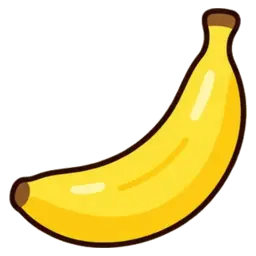
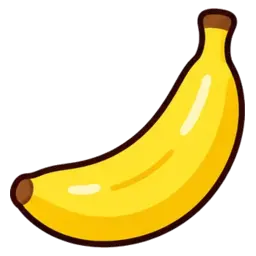
Counters quiz: add food/item illustrations from sheet 1
Claude-Session: https://claude.ai/code/session_01TCRPV7fohktLwWF6WC9mVd

diff --git a/site/asonde/kazoekata/kazoekata.html b/site/asonde/kazoekata/kazoekata.html
@@ -124,13 +124,13 @@
 var $=function(i){return document.getElementById(i)};
 var TIP={こ:'「こ」は りんご・ボール・たまご など、小さくて まるい ものを かぞえるよ。',ほん:'「ほん」は えんぴつ・かさ・バナナ など、ほそながい ものを かぞえるよ。',まい:'「まい」は かみ・シャツ・おさら など、うすくて たいらな ものを かぞえるよ。',ひき:'「ひき」は ねこ・いぬ・さかな など、小さい どうぶつを かぞえるよ。',とう:'「とう」は ぞう・うま・うし など、大きい どうぶつを かぞえるよ。',わ:'「わ」は とりを かぞえるよ。うさぎも「わ」で かぞえることが あるよ。',だい:'「だい」は くるま・じてんしゃ・テレビ など、のりものや きかいを かぞえるよ。',さつ:'「さつ」は ほん・ノート など、とじてある ものを かぞえるよ。',にん:'「にん」は ひとを かぞえるよ。1人は ひとり、2人は ふたり と よむよ。',そく:'「そく」は くつ・くつした など、2つで 1くみの はきものを かぞえるよ。',けん:'「けん」は いえ や おみせを かぞえるよ。',きゃく:'「きゃく」は いすを かぞえるよ。',はい:'「はい」は コップや おちゃわんに 入った のみものを かぞえるよ。1ぱい・2はい・3ばい と よみかたが かわるよ。',さい:'「さい」は としを かぞえるよ。',えん:'「えん」は 日本の おかねの たんいだよ。'};
 // ★1: [絵, 文, 正解, ダミー3]
-var L1=[['🍎🍎🍎','りんごが 3','こ',['ほん','まい','ひき']],['✏✏','えんぴつが 2','ほん',['こ','まい','だい']],['📄📄📄📄','かみが 4','まい',['ほん','こ','さつ']],['🐱🐱','ねこが 2','ひき',['にん','こ','わ']],['🚗🚗🚗','くるまが 3','だい',['ほん','ひき','こ']],['📕📕','ほんが 2','さつ',['まい','ほん','こ']],['👟👟','くつが 2','そく',['まい','ほん','こ']],['🐘','ぞうが 1','とう',['まい','だい','こ']],['🐦🐦🐦','とりが 3','わ',['だい','まい','さつ']],['🍌🍌🍌','バナナが 3','ほん',['こ','まい','だい']],['👕👕','シャツが 2','まい',['ほん','さつ','こ']],['🐟🐟🐟🐟','さかなが 4','ひき',['ほん','まい','とう']],['🥚🥚🥚','たまごが 3','こ',['まい','ほん','わ']],['☂☂','かさが 2','ほん',['まい','だい','こ']],['🚲','じてんしゃが 1','だい',['ほん','ひき','こ']],['🏠🏠🏠','いえが 3','けん',['だい','こ','まい']],['🍽🍽','おさらが 2','まい',['こ','ほん','だい']],['🐴🐴','うまが 2','とう',['まい','だい','さつ']],['📓📓📓','ノートが 3','さつ',['まい','ほん','こ']],['⚽⚽','ボールが 2','こ',['ほん','まい','だい']],['☕☕','おちゃが 2','はい',['まい','こ','だい']],['🎂','わたしは 7{?} です。','さい',['こ','まい','ほん']],['💴','ジュースは 100{?} です。','えん',['こ','まい','だい']],['🐜🐜🐜','ありが 3','ひき',['こ','まい','だい']],['📺','テレビが 1','だい',['まい','ほん','こ']],['🍙🍙','おにぎりが 2','こ',['まい','ほん','だい']],['🐄🐄','うしが 2','とう',['まい','だい','さつ']],['🪑🪑🪑','いすが 3','きゃく',['だい','こ','まい']],['🌳🌳','きが 2','ほん',['だい','こ','まい']]];
+var L1=[['🍎🍎🍎','りんごが 3','こ',['ほん','まい','ひき']],['✏✏','えんぴつが 2','ほん',['こ','まい','だい']],['📄📄📄📄','かみが 4','まい',['ほん','こ','さつ']],['🐱🐱','ねこが 2','ひき',['にん','こ','わ']],['🚗🚗🚗','くるまが 3','だい',['ほん','ひき','こ']],['📕📕','ほんが 2','さつ',['まい','ほん','こ']],['👟👟','くつが 2','そく',['まい','ほん','こ']],['🐘','ぞうが 1','とう',['まい','だい','こ']],['🐦🐦🐦','とりが 3','わ',['だい','まい','さつ']],['🍌🍌🍌','バナナが 3','ほん',['こ','まい','だい']],['👕👕','シャツが 2','まい',['ほん','さつ','こ']],['🐟🐟🐟🐟','さかなが 4','ひき',['ほん','まい','とう']],['🥚🥚🥚','たまごが 3','こ',['まい','ほん','わ']],['☂☂','かさが 2','ほん',['まい','だい','こ']],['🚲','じてんしゃが 1','だい',['ほん','ひき','こ']],['🏠🏠🏠','いえが 3','けん',['だい','こ','まい']],['🍽🍽','おさらが 2','まい',['こ','ほん','だい']],['🐴🐴','うまが 2','とう',['まい','だい','さつ']],['📓📓📓','ノートが 3','さつ',['まい','ほん','こ']],['⚽⚽','ボールが 2','こ',['ほん','まい','だい']],['☕☕','おちゃが 2','はい',['まい','こ','だい']],['🎂','わたしは 3{?} です。','さい',['こ','まい','ほん']],['💴','ジュースは 100{?} です。','えん',['こ','まい','だい']],['🐜🐜🐜','ありが 3','ひき',['こ','まい','だい']],['📺','テレビが 1','だい',['まい','ほん','こ']],['🍙🍙','おにぎりが 2','こ',['まい','ほん','だい']],['🐄🐄','うしが 2','とう',['まい','だい','さつ']],['🪑🪑🪑','いすが 3','きゃく',['だい','こ','まい']],['🌳🌳','きが 2','ほん',['だい','こ','まい']]];
 // ★2: [絵, 文, 正解, ダミー3, 数え方]
 var L2=[['✏','えんぴつが','いっぽん',['いちほん','いっほん','いちぼん'],'ほん'],['✏✏✏','えんぴつが','さんぼん',['さんほん','さんぽん','みっぽん'],'ほん'],['✏✏✏✏✏✏','えんぴつが','ろっぽん',['ろくぼん','ろっぼん','むっぽん'],'ほん'],['🐶','いぬが','いっぴき',['いちひき','いっひき','いちびき'],'ひき'],['🐶🐶🐶','いぬが','さんびき',['さんひき','さんぴき','みっぴき'],'ひき'],['🐟🐟🐟🐟🐟🐟','さかなが','ろっぴき',['ろくひき','ろくびき','ろっびき'],'ひき'],['🍎','りんごが','いっこ',['いちこ','ひとこ','いっご'],'こ'],['🍎🍎🍎🍎🍎🍎','りんごが','ろっこ',['ろくこ','ろっご','むっこ'],'こ'],['📕','ほんが','いっさつ',['いちさつ','いっざつ','ひとさつ'],'さつ'],['☕','おちゃが','いっぱい',['いちはい','いっはい','いちぱい'],'はい'],['🪑','いすが','いっきゃく',['いちきゃく','いっぎゃく','ひときゃく'],'きゃく'],['☕☕☕','おちゃが','さんばい',['さんはい','さんぱい','みっぱい'],'はい'],['📄📄','かみが','にまい',['ふたまい','にばい','にっまい'],'まい'],['🚗','くるまが','いちだい',['いっだい','ひとだい','いったい'],'だい'],['🏠🏠🏠','いえが','さんげん',['さんけん','さっけん','みけん'],'けん'],['🐦','とりが','いちわ',['いちば','ひとわ','いっわ'],'わ'],['✏✏✏✏✏✏✏✏✏✏','えんぴつが','じゅっぽん',['じゅうほん','じゅうぼん','とおほん'],'ほん'],['🐸🐸🐸🐸','かえるが','よんひき',['よんぴき','しひき','よっぴき'],'ひき']];
 // ★3
 var L3=[['🍬','あめが','ひとつ',['いっつ','いちつ','ひとっつ']],['🍬🍬','あめが','ふたつ',['につ','ふたっつ','にっつ']],['🍬🍬🍬','あめが','みっつ',['さんつ','みつつ','さんっつ']],['🍬🍬🍬🍬','あめが','よっつ',['よんつ','しつ','よつつ']],['🍬🍬🍬🍬🍬','あめが','いつつ',['ごつ','いつっつ','ごっつ']],['🍬🍬🍬🍬🍬🍬','あめが','むっつ',['ろくつ','ろっつ','むつつ']],['🍬🍬🍬🍬🍬🍬🍬','あめが','ななつ',['しちつ','ななっつ','なのつ']],['🍬🍬🍬🍬🍬🍬🍬🍬','あめが','やっつ',['はちつ','はっつ','やつつ']],['🍬🍬🍬🍬🍬🍬🍬🍬🍬','あめが','ここのつ',['きゅうつ','ここのっつ','ここつ']],['🧒','こどもが','ひとり',['いちにん','いちり','ひとにん']],['🧒🧒','こどもが','ふたり',['ににん','ふたにん','にり']],['🧒🧒🧒','こどもが','さんにん',['みにん','さんり','さんじん']],['🧒🧒🧒🧒','こどもが','よにん',['よんにん','しにん','よったり']],['📅 1日','カレンダーの「1日」は {?} と よむよ。','ついたち',['ついだち','いちか','ひとか'],'hi'],['📅 2日','カレンダーの「2日」は {?} と よむよ。','ふつか',['ふたか','につか','ふたつか'],'hi'],['📅 3日','カレンダーの「3日」は {?} と よむよ。','みっか',['さんにち','みつか','さんか'],'hi'],['📅 4日','カレンダーの「4日」は {?} と よむよ。','よっか',['よんか','よんにち','よつか'],'hi'],['📅 5日','カレンダーの「5日」は {?} と よむよ。','いつか',['ごにち','いつっか','ごか'],'hi'],['📅 6日','カレンダーの「6日」は {?} と よむよ。','むいか',['ろくにち','むっか','ろっか'],'hi'],['📅 7日','カレンダーの「7日」は {?} と よむよ。','なのか',['ななか','なのっか','しちか'],'hi'],['📅 8日','カレンダーの「8日」は {?} と よむよ。','ようか',['はちにち','やっか','はっか'],'hi'],['📅 9日','カレンダーの「9日」は {?} と よむよ。','ここのか',['くにち','ここのにち','ここのつか'],'hi'],['📅 10日','カレンダーの「10日」は {?} と よむよ。','とおか',['じゅうにち','とうか','じゅっか'],'hi'],['📅 14日','カレンダーの「14日」は {?} と よむよ。','じゅうよっか',['じゅうよんか','じゅうよっつか','じゅうしか'],'hi'],['📅 20日','カレンダーの「20日」は {?} と よむよ。','はつか',['はたか','にじゅっか','はつにち'],'hi'],['📅 24日','カレンダーの「24日」は {?} と よむよ。','にじゅうよっか',['にじゅうよんか','にじゅうよっつか','にじゅうしか'],'hi']];
 var LV=[{q:L1,n:'★1',p:'どれで かぞえる？'},{q:L2,n:'★2',p:'なんて よむ？'},{q:L3,n:'★3',p:'とくべつな よみかた'}];
-var IMGB='/wp-content/uploads/2026/10/kz-',IMG={'🍎':'ringo','🍌':'banana','🚗':'kuruma','🐱':'neko','⚽':'ball','☂':'kasa','🪑':'isu','🌳':'ki'};
+var IMGB='/wp-content/uploads/2026/10/kz-',IMG={'🍎':'ringo','🍌':'banana','🚗':'kuruma','🐱':'neko','⚽':'ball','☂':'kasa','🪑':'isu','🌳':'ki','🥚':'tamago','🍙':'onigiri','🎂':'cake','☕':'ocha','🍬':'ame','✏':'enpitsu'};
 function pic(t){return [...t].filter(function(x){return x.charCodeAt(0)!==0xFE0F}).map(function(c){return IMG[c]?'<img src="'+IMGB+IMG[c]+'.webp?v=1" alt="" onerror="this.outerHTML=\''+c+'\'">':c}).join('')}
 var COUNT=10,st={};
 function shuf(a){a=a.slice();for(var i=a.length-1;i>0;i--){var j=Math.floor(Math.random()*(i+1)),t=a[i];a[i]=a[j];a[j]=t}return a}
